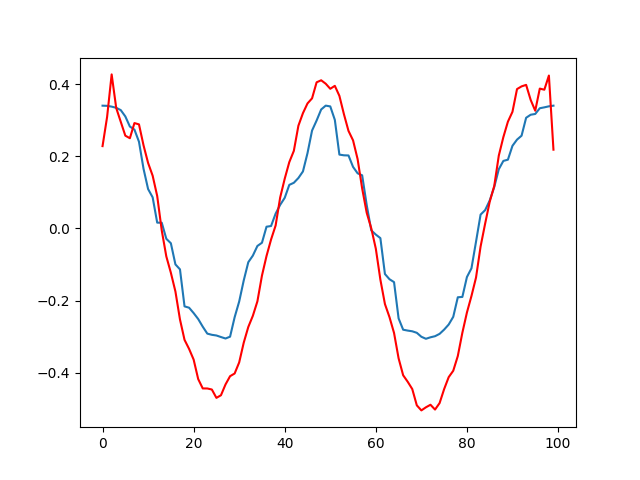
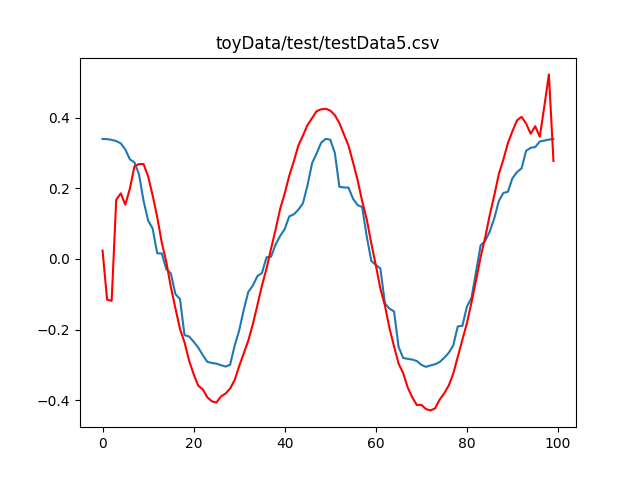
Fixed test cases

diff --git a/AnomDetec.py b/AnomDetec.py
@@ -132,25 +132,26 @@ plt.plot(x_train_pred[0,:,0], color='r')
 plt.savefig('reconstruction{}'.format(suff))
 
 #Test data
-
 test=np.array([])
 firstIt=True
 for filepath in Path('toyData').glob('test/*.csv'):
-  if firstIt:
-     data=np.asarray(pd.read_csv(filepath, names=['x','y']).values)
-     data=data[data[:,0].argsort()]
-     test=np.reshape(data, [1,100,2]) #Not a good fix, won't work for  data where i don't know the size
-     firstIt=False
-  else:
-    data=np.asarray(pd.read_csv(filepath, names=['x','y']).values)
-    data=data[data[:,0].argsort()]
-    test=np.insert(test, -1, data, axis=0)
+	if firstIt:
+		data=np.asarray(pd.read_csv(filepath, names=['x','y']).values)
+		data=data[data[:,0].argsort()]
+		test=np.reshape(data, [1,100,2]) #Not a good fix, won't work for  data where i don't know the size
+		firstIt=False
+		paths=[filepath]
+	else:
+		data=np.asarray(pd.read_csv(filepath, names=['x','y']).values)
+		data=data[data[:,0].argsort()]
+		test=np.insert(test, -1, data, axis=0)
+		paths=np.insert(paths,-1, filepath, axis=0)
 
 
 print(test.shape)
 
 #Process test data
-
+print(test[0,:,1])
 test[:,:,1]=(test[:,:,1]-training_mean)/(training_std)
 x_test=test[:,:,1]
 x_test=np.reshape(x_test, [6,100,1])
@@ -165,9 +166,17 @@ while i<6:
 	fig=plt.figure()
 	plt.plot(x_test[i,:,0])
 	plt.plot(x_test_pred[i,:,0], color='r')
+	plt.title(paths[i])
 	plt.savefig('test{}'.format(i))
 	plt.close()
 	i+=1
+
+
+
+
+
+
+
 
 
 
